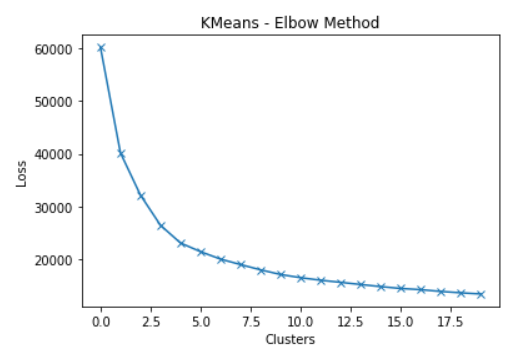
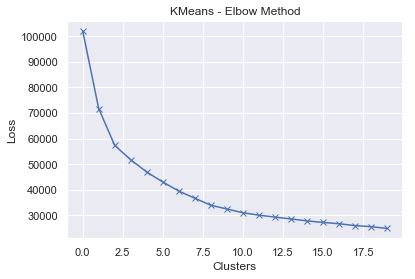
Finalized report. Still need to fix images

Changed region(s): [[0.0, 0.0287, 0.9542, 1.0], [0.3181, 0.6595, 0.3759, 0.7168], [0.347, 0.6022, 0.3759, 0.6308]]

diff --git a/index.html b/index.html
@@ -27,122 +27,150 @@
     <!-- MAIN CONTENT -->
     <div id="main_content_wrap" class="outer">
       <section id="main_content" class="inner">
+        <p style="text-align:center;font-weight:bold;">CS 4641 Team 17: Brian Glowniak, Joey Steffey, Kristen Lee, Ryan Pratt</p>
         <h3>
-<a id="introduction" class="anchor" href="#introduction" aria-hidden="true"><span aria-hidden="true" class="octicon octicon-link"></span></a>Introduction</h3>
-<p>For our project, we wanted to take data from a set of songs, and then use those songs' features to predict their genre. With the rise of digital streaming in the past decade, accessibility to music has increased drastically and in return so has the demand for people to explore music similar to what they already like. An accurate genre predictor for songs is crucial for music distributing sites such as Spotify, Apple Music, and Amazon Music. Thus, we aim to create an algorithm using K Means and Linear/Logistic Regression to predict which song a genre belongs to.</p>
-<img src="images/genre_map.png" alt="Genre Map" style="width:540px;height:294px;">
-<h3>
-<a id="data" class="anchor" href="#data" aria-hidden="true"><span aria-hidden="true" class="octicon octicon-link"></span></a>Data</h3>
-<p>Our dataset is a collection of 232,725 songs pulled from Spotify's API with a total of 26 different genres and 18 features. We downloaded the dataset from Kaggle. Also, we ended up removing tracks from 12 different genres as we deemed many of the songs in those genres to have been erroneously classified and were detrimental to the overall dataset. Thus, we ended up with 132,097 tracks assigned to 14 genres. The genres included were Country, Dance, Alternative, Electronic, Folk, Hip-Hop, Indie, R&B, Classical, Rap, Raggae, Pop, Rock, and Soul. Out of the 17 other features, we only chose to use 10 as we found the others to either be poor predictors for any genre or inconsequential data like a track's id or URI:
-  <ul>
-    <li>Key: The key of the track using Pitch Class Notation (0=C, 1=C#, etc)</li>
-    <li>Mode: Mode of the track (0=Minor, 1=Major)</li>
-<!--     <li>Time_Signature: How many beats in each measure</li> -->
-    <li>Acousticness: Confidence from 0.0 to 1.0 of whether the track is acoustic</li>
-    <li>Danceability: How suitable a track is for dancing from 0.0 to 1.0</li>
-    <li>Energy: How energetic a track is from 0.0 to 1.0</li>
-    <li>Instrumentalness: Predicts whether a track contains no vocals from 0.0 to 1.0</li>
-    <li>Liveness: Detects likelihood of an audience in recording from 0.0 to 1.0</li>
-    <!-- <li>Loudness: Average loudness of a track in decibels (dB)</li> -->
-    <li>Speechiness: Detects presence of spoken words w/o instrumentals from 0.0 to 1.0</li>
-    <li>Valence: Measure from 0.0 to 1.0 of the positivity conveyed by a track</li>
-    <li>Tempo: Overall estimated tempo in beats per minutes (BPM)</li>
-  </ul>
-</p>
-<img src="images/Feature_Data.png" alt="Distribution of Feature Scores">
-<h3>
-<a id="approachexperimentsresults" class="anchor" href="#approachexperimentsresults" aria-hidden="true"><span aria-hidden="true" class="octicon octicon-link"></span></a>Approach/Experiments/Results</h3>
-<p>For supervised learning, we ran four different algorithms to see if we can predict a track's genre with the following scores:
-  <ul>
-    <li>Linear Regression: 0.081</li>
-    <li>Logistic Regression: 0.310</li>
-    <li>Decision Tree: 0.242</li>
-    <li>Random Forest: 0.362</li>
-  </ul>
-For unsupervised learning, we intended to analyze the performance of each feature in the dataset. First we used Select K Best to score each of the used features:
-  <ul>
-    <li>Acousticness: 0.224</li>
-    <li>Danceability: 0.180</li>
-    <li>Energy: 0.207</li>
-    <li>Instrumentalness: 0.146</li>
-    <li>Key: 0.0006</li>
-    <li>Liveness: 0.007</li>
-    <li>Mode: 0.015</li>
-    <li>Speechiness: 0.111</li>
-    <li>Tempo: 0.014</li>
-    <li>Valence: 0.095</li>
-  </ul>
-Then, we applied KMeans to the dataset. After running the Elbow Method on the data, we found 8 clusters to be optimal:</p>
-<img src="images/elbow.png" alt="KMeans Graph" style="width:399px;height:221px;">
-<p> We then ran KMeans twice, once on with 8 clusters and once with 14 clusters.</p>
-<p>With 8 clusters:</p>
-<img src="images/KMeans_8.png" alt="KMeans Graph" style="width:330px;height:314px;">
-<p>With 12 clusters:</p>
-<img src="images/KMeans_12.png" alt="KMeans Graph" style="width:330px;height:314px;">
-<p>
-  Why do you think your approach can effectively solve your problem?
-What is new in your approach?
-Were the experiments, results, and conclusion satisfactory?
-How did you evaluate your approach?
-What are the results?
-</p>
-<h3>
-<a id="conclusionfuture-work" class="anchor" href="#conclusionfuture-work" aria-hidden="true"><span aria-hidden="true" class="octicon octicon-link"></span></a>Conclusion/Future Work</h3>
+          <a id="introduction" class="anchor" href="#introduction" aria-hidden="true">
+            <span aria-hidden="true" class="octicon octicon-link"></span>
+          </a>
+          Introduction
+        </h3>
+        <p>With the rise of digital streaming in the past decade, accessibility to music has increased drastically and in return so has the demand for people to explore music similar to what they already like. An accurate genre predictor for songs is crucial for music distributing sites such as Spotify, Apple Music, and Amazon Music. For our project, we wanted to explore what features are important when classifying the genre of a song as well as whether it is possible to predict the genre of a song. In the first part of our project, we used supervised learning algorithms to attempt to predict the genre of a song based on the features available to us. In the second part of our project, we used unsupervised learning to create our own clusters of songs defined solely with respect to our features rather than on the existing genre labels.</p>
+        <img src="https://drive.google.com/open?id=1sbLZROF_2SRCYFzMQf4BuvRj4UPdyVlu" alt="Genre Map" style="width:540px;height:294px;display:block;margin:auto;">
+        <p style="text-align:center;font-size:12px;font-style:italic;">So many specific genres to choose from. What separates the basics? Credit: Yash Dua</p>
 
-<p>
-  Our outcome was not opitmal as our genre predictions were not consistent. Our dataset did not provide us with the needed information
-  to properly predict genre as our most accurate model was Random Forest with an average accuracy of 36%. 
-</p> 
-<p>
-  If our methods were refined, we believe that genre classifying would be a useful tool to music lovers everywhere to
-  find new music. It could also be used by those interested in making their own music as a reference for genre baselines in different
-  musical features.
-  To do this, we have come up with a few steps that we can take to improve on our current project.
-</p>
-<p>
-  The potential next steps we would take in furthering this project and obtaining better results would be to be more selctive 
-  with what features we are analyzing. Since our current feature analysis was not a consistently good genre predictor, re-evaluating
-  which features are better predictors would be beneficial. This re-evaluation may mean cutting out some features but possibly also 
-  considering others that were not originally included in the analysis. In addition to being more selective with features, 
-  giving each feature a weight would also help our models better predict genre. This would allow us to still consider multiple 
-  features but would put more emphasis on the features that more directly correlate with genre prediction.  
- </p>
+        <h3>
+          <a id="data" class="anchor" href="#data" aria-hidden="true">
+            <span aria-hidden="true" class="octicon octicon-link"></span>
+          </a>
+          Data
+        </h3>
+        <p>Our dataset is a collection of 232,725 songs pulled from Spotify's API with a total of 26 different genres and 18 features. We downloaded the dataset from Kaggle, and in order to use it we performed a few data cleaning operations. First, we removed 12 different genres entirely. There were two reasons for this: 1) many of these genres were "atypical" (e.g. Anime, Movie, Comedy, etc.) and 2) many of the songs in those specific genres were clearly erroneously or repeat classified. We wanted to focus our efforts on popular/common genres.  Thus, we ended up with 132,096 tracks assigned to 14 genres. The genres included were Country, Dance, Alternative, Electronic, Folk, Hip-Hop, Indie, R&B, Classical, Rap, Raggae, Pop, Rock, and Soul. Apart from genre, we chose to use 10 other features for classification. All values were either already between 0 and 1 or were normalized to be between 0 and 1.</p>
+        <ul>
+          <li><strong>Key:</strong> The key of the track using Pitch Class Notation. They are normalized between 0 and 1 with a 1/7 step between flat notes and a 1/14 step between sharp notes (0=A, 1/14=A#, 1/7=B, ... , 6/7=G).</li>
+          <li><strong>Mode:</strong> Mode of the track (0=Minor, 1=Major).</li>
+          <li><strong>Acousticness:</strong> Confidenceof whether the track is acoustic (i.e. can instruments be clearly heard).</li>
+          <li><strong>Danceability:</strong> How suitable a track is for dancing.</li>
+          <li><strong>Energy:</strong> How energetic a track is.</li>
+          <li><strong>Instrumentalness:</strong> Predicts whether a track contains no vocals. Highly instrumental tracks are closer to 1.0.</li>
+          <li><strong>Liveness:</strong> Detects likelihood of an audience in recording.</li>
+          <li><strong>Speechiness:</strong> Detects presence of spoken words w/o instrumentals.</li>
+          <li><strong>Valence:</strong> Measure of the positivity/happiness conveyed by a track.</li>
+          <li><strong>Tempo:</strong> Estimated tempo in beats per minute (BPM). Normalized to be between 0 and 1.</li>
+        </ul>
+        <p>Excluded features include Track Name, Artist, Track ID, Popularity, Time Signature, and Duration. We believed these would not have as much of an effect on the genre of a song.</p>
 
-<h3> 
-<a id="references" class="anchor" href="#references" aria-hidden="true"><span aria-hidden="true" class="octicon octicon-link"></span></a>References</h3>
-<p>
-  Kaggle, 2019, https://www.kaggle.com/zaheenhamidani/ultimate-spotify-tracks-db
-</p>
-<p>
-  Dua, Yash. Name That Game, Nov 2019, https://towardsdatascience.com/music-genre-prediction-with-spotifys-audio-features-8a2c81f1a22e
-</p>
-<p>
-  “Get Audio Features for a Track.” Spotify for Developers, Spotify, 2019
-</p>
-<p>Ino, Mayumi. Apparatus for Producing a Chord Progression by Connecting Chord Patterns. 1 
-    Oct. 1991.
-</p>
-<p>   
-    Minamitaka, Junichi. Technique for Selecting a Chord Progression for a Melody. 8 June 1993.
-</p>   
-<p>
-    Paiement, Jean-Francois, et al. “A Probabilistic Model for Chord Progressions.” Proceedings of the 
-    Sixth International Conference on Music Information Retrieval (ISMIR), 2005.
-</p>
+        <h3>
+          <a id="supervisedlearning" class="anchor" href="#supervisedlearning" aria-hidden="true">
+            <span aria-hidden="true" class="octicon octicon-link"></span>
+          </a>
+          Part 1: Supervised Learning
+        </h3>
+        <p>The goal of this section was to see whether we can predict the genre of a song based on its characteristics. To do so, we tested five supervised learning methods (linear regression, logistic regression, decision tree, random forest, and a neural network (MLP)). To do this, we split our data into training (90%) and test (10%) sets. The results were scored using the R^2 score (the default sklearn score method) and are listed below:
+        <ul>
+          <li><strong>Linear Regression:</strong> 0.0851</li>
+          <li><strong>Logistic Regression:</strong> 0.3065</li>
+          <li><strong>Decision Tree:</strong> 0.3140</li>
+          <li><strong>Random Forest:</strong> 0.3581</li>
+          <li><strong>Neural Network:</strong> 0.3438</li>
+        </ul>
 
+        <img src="https://drive.google.com/open?id=1sdXeWk44rJK--tUXjMRXMqrL9baojVYe" alt="Supervised Learning Scores" style="width:425px;height:275px;display:block;margin:auto;">
+        <p style="text-align:center;font-size:12px;font-style:italic;">Accuracy scores for the five supervised learning algorithms</p>
 
-</section>
+        <p>The best classifier out of the five we tried was Random Forest, but even that did not have a very good accuracy (~36%). The takeaway here is that classifying genres is apparently much more complex than using features like acousticness, danceability, etc. This intuitively makes sense - to further increase accuracy, we would need to introduce features like chord progressions and lyrical analyses.
+
+        Another area of improvement would be to test out different sets of hyperparameters for these algorithms. We were able to do a few small tests, specifically on the neural network (number of hidden layers, number of iterations, etc.), but if we had more time we would run cross-validation to attempt to optimize hyperparameters for each of the algorithms.</p>
+
+        <h3>
+          <a id="unsupervisedlearning" class="anchor" href="#unsupervisedlearning" aria-hidden="true">
+            <span aria-hidden="true" class="octicon octicon-link"></span>
+          </a>
+          Part 2: Unsupervised Learning
+        </h3>
+        <p>Using supervised learning, we concluded that the features in our data set were not enough to accurately classify genres as defined within the data. There can be a lot of overlap, and our features also don't seem to fully capture the differences between genres. For part 2, we decided to use unsupervised learning to explore the features themselves and to use them to attempt to define our own genre clusters.</p>
+
+        <p>First, we analyzed the importance of each feature in the data set when classifying. To do so, we used Select K Best to score each:</p>
+
+        <img src="https://drive.google.com/open?id=1p-miQLC7UG3GRWQHQ5XtLA0sfxbq3jhA" alt="Feature Scores" style="width:392px;height:251px;display:block;margin:auto;">
+        <p style="text-align:center;font-size:12px;font-style:italic;">Scores from SelectKBest for each feature</p>
+
+        <p>Using the default score function (f_classif), we see that Acousticness, Energy, and Danceability are the three most important features. Key, Liveness, Tempo, and Mode are barely influential, if at all.</p>
+
+        <p>The next step is to begin defining our own genre clusters using KMeans. First, we use the elbow method to determine the optimal number of clusters given our data.</p>
+        <img src="https://drive.google.com/open?id=1zszPElkiqUyZoaxR-7nkJY2iOw2_CZyy" alt="KMeans Graph" style="width:488px;height:344px;display:block;margin:auto;">
+
+        <p>The loss begins to level out around 7-10 clusters. We choose 7 as our optimal cluster number, but a case could be made for 8 clusters as well.</p>
+
+        <p>With 7 clusters:</p>
+        <img src="https://drive.google.com/open?id=1AEsRk-ky6g_MZvHHjq8Bg8XuGCN26wjr" alt="KMeans 7 HeatMap" style="width:354px;height:330px;display:block;margin:auto;">
+
+        <p>Each row of the above heat map corresponds to a cluster. Using the values of each center, we can create seven classifications with respect to the actual features instead of specific genre definitions.</p>
+
+        <p>Tempo and liveness are fairly similar across all of the clusters, which is consistent with the results of our feature scores. One observation is that centers with higher acousticness and lower energies correspond to relatively lower tempos, which makes sense.</p>
+
+        <p>Danceability and energy appear to be positively correlated, and both seem to be negatively correlated with acousticness and valence. Most clusters are in a major key.</p>
+
+        <p>We attempt to label these clusters with respect to their features below.</p>
+
+        <ul>
+          <li><strong>0:</strong> High D, Highest E/V, Lowest I, Low A, C Major</li>
+          <li><strong>1:</strong> Highest D, High E/V, Low I/A, D Minor</li>
+          <li><strong>2:</strong> Medium D, Low E/V, Medium I/A, D Minor</li>
+          <li><strong>3:</strong> High D/E, Medium V, High I, Lowest A, D# Major</li>
+          <li><strong>4:</strong> Medium D, Low E/V, Low I, High A, D Major</li>
+          <li><strong>5:</strong> Lowest D/E/V, Highest I/A, D# Major</li>
+          <li><strong>6:</strong> High D/E/V, Low I/A, F# Major</li>
+        </ul>
+
+        <p>Next, we ran KMeans with the same number of clusters as genres in our original data set (14). This is mostly just for the sake of comparison.</p>
+
+        <p>With 14 clusters:</p>
+        <img src="https://drive.google.com/open?id=1Tp49-38qve3ZIbLT6vTxbMFePzv6iz6P" alt="KMeans 14 HeatMap" style="width:354px;height:330px;display:block;margin:auto;">
+
+        <p>Lastly, we will use PCA to show that defining our own clusters with KMeans results in better clustering than using the predefined genre labels. We reduce our features to 2 components with PCA, then plot with colors first based on our genre labels, and then based on our optimal KMeans clusters.</p>
+
+        <p>First, we plot the two PCA components with each song colored according to its labeled genre. It is clear that the true genre labels don't do a very good job of clustering the songs</p>
+        <img src="https://drive.google.com/open?id=1CsXLSo7NWkLFXJRwGaLC982Ikz4jNceW" alt="PCA True Labels" style="width:548px;height:452px;display:block;margin:auto;">
+
+        <p>Next, we plot the two PCA components with each song colored according to its cluster defined by our optimal KMeans. It is clear that the songs are much more tightly clustered when done so this way. This shows that the features provided by our data set aren't effective in classifying by the strict predefined genres, but they can be used to define new types of "genres" characterized more by the intrinsic features of a song. One could go through and assign more specific labels based on the feature values listed.</p>
+
+        <img src="https://drive.google.com/open?id=1Buf_es3itcUON5M_vFopx0hAyU4C584q" alt="PCA Optimal Labels" style="width:600px;height:394px;display:block;margin:auto;">
+
+        <h3>
+          <a id="conclusionfuture-work" class="anchor" href="#conclusionfuture-work" aria-hidden="true">
+            <span aria-hidden="true" class="octicon octicon-link"></span>
+          </a>
+          Conclusion
+        </h3>
+
+        <p>For the first part, our outcome was not optimal as our genre predictions were not consistent. Our dataset did not provide us with the needed information to properly predict genre as our most accurate model was Random Forest with an average accuracy of 36%. For the second part, we found that defining "genres" based solely on the features provided resulted in much more well-defined clusters.</p>
+
+        <p>If our methods were refined, we believe that genre classifying would be a useful tool to music lovers everywhere to find new music. It could also be used by those interested in making their own music as a reference for genre baselines in different musical features. Furthermore, referencing the second part of our project, this could represent a new way of defining genre based on the intrinsic features of a song - users could explore songs that they like that are not bound by traditional genres (e.g. someone who usually likes happy songs with lots of energy)</p>
+
+        <p>The potential next steps we would take in furthering this project and obtaining better results would be to be more selctive with what features we are analyzing. Since our current feature analysis was not a consistently good genre predictor, re-evaluating which features are better predictors would be beneficial. This re-evaluation may mean cutting out some features but possibly also considering others that were not originally included in the analysis. In addition to being more selective with features, giving each feature a weight would also help our models better predict genre. This would allow us to still consider multiple features but would put more emphasis on the features that more directly correlate with genre prediction.</p>
+
+        <h3>
+          <a id="references" class="anchor" href="#references" aria-hidden="true">
+            <span aria-hidden="true" class="octicon octicon-link"></span>
+          </a>
+          References
+        </h3>
+
+        <p>Kaggle, 2019, https://www.kaggle.com/zaheenhamidani/ultimate-spotify-tracks-db</p>
+        <p>Dua, Yash. Name That Game, Nov 2019, https://towardsdatascience.com/music-genre-prediction-with-spotifys-audio-features-8a2c81f1a22e</p>
+        <p>“Get Audio Features for a Track.” Spotify for Developers, Spotify, 2019</p>
+        <p>Ino, Mayumi. Apparatus for Producing a Chord Progression by Connecting Chord Patterns. 1 Oct. 1991.</p>
+        <p>Minamitaka, Junichi. Technique for Selecting a Chord Progression for a Melody. 8 June 1993.</p>
+        <p>Paiement, Jean-Francois, et al. “A Probabilistic Model for Chord Progressions.” Proceedings of the Sixth International Conference on Music Information Retrieval (ISMIR), 2005.</p>
+      </section>
     </div>
 
     <!-- FOOTER  -->
     <div id="footer_wrap" class="outer">
       <footer class="inner">
-        <p class="copyright">Project Title Placeholder maintained by <a href="https://github.gatech.edu/bglowniak3">bglowniak3</a></p>
+        <p class="copyright">Song Genre Prediction maintained by <a href="https://github.gatech.edu/bglowniak3">bglowniak3</a></p>
         <p>Published with <a href="https://pages.github.com">GitHub Pages</a></p>
       </footer>
     </div>
-
-    
-
   </body>
 </html>
